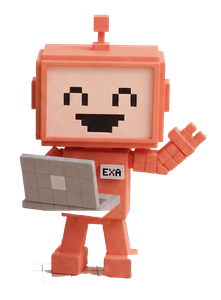
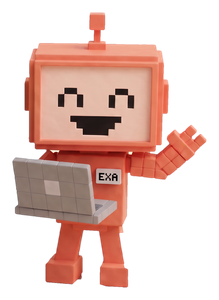
fix: replace the mascot cutouts with properly matted versions
My cut left five floating fragments in naro.png, including a 63px torn piece
of the glass dome. Invisible on paper, glaring on ink — and naro.png is the
canonical asset every future Mitte generation references, so a broken one is
exactly the latent problem that started this.

These come from a matte that fits the background as a per-channel quadratic
rather than assuming a cream constant, separates the plinth by warmth plus a
g/r ratio instead of colour distance (which is what stops Naro's pale-blue leg
highlights being eaten), and reconstructs the glass dome as a genuine partial
alpha annulus. An earlier attempt concluded the dome could not be recovered;
that was wrong, and character-sheet.md now records how it is done.

og-card.html renders from a full-res exa-source.png, so the card is crisp on
re-render rather than degrading each time.

Changed region(s): [[0.0548, 0.03, 0.9589, 0.96], [0.7397, 0.3, 0.7671, 0.39]]

diff --git a/og-source.html b/og-source.html
@@ -32,10 +32,9 @@
   /* Exa waves from the corner. Kept clear of the headline and the stat row so
      nothing collides when a client crops the card.
 
-     NOTE: the committed og-card.png was rasterized while exa.png was still
-     840px tall. That asset is now 300px, so re-rendering this file today
-     produces a slightly softer Exa. If you need a crisp re-render, point this
-     img at a larger source rather than "fixing" the card you just softened. */
+     Renders from assets/mascots/exa-source.png (614x840) rather than the
+     300px exa.png the page uses, so re-running the headless render always
+     produces a crisp card. */
   .og-exa {
     position: absolute;
     right: 52px;
@@ -125,7 +124,7 @@
 </style>
 </head>
 <body>
-  <img class="og-exa" src="exa.png" alt="">
+  <img class="og-exa" src="assets/mascots/exa-source.png" alt="">
   <p class="eyebrow">AI Engineer</p>
 
   <h1>I build AI agents that<br>ship to production<span class="sig">.</span></h1>

diff --git a/index.html b/index.html
@@ -276,7 +276,7 @@
     </section>
 
     <section id="contact" class="dark">
-      <img class="exa" src="exa.png" alt="" aria-hidden="true" loading="lazy" width="221" height="300">
+      <img class="exa" src="exa.png" alt="" aria-hidden="true" loading="lazy" width="219" height="300">
       <div class="wrap contact">
         <h2 class="visually-hidden">Contact</h2>
         <p class="contact-line">Need agents that hold up <br>in production?</p>

diff --git a/styles.css b/styles.css
@@ -674,7 +674,7 @@ p + .lbl { margin-top: 1.5rem; }
 
 #contact { position: relative; }
 .exa {
-  --exa-rest: -94%;            /* -100% + the asset's 6% bottom padding */
+  --exa-rest: -96%;            /* -100% + the asset's 4% bottom padding */
   position: absolute;
   top: 1px;
   right: clamp(24px, 9vw, 132px);

diff --git a/scripts/matte.py b/scripts/matte.py
@@ -1,0 +1,109 @@
+"""Cut Naro and Exa out of duo-v2.png.
+
+INCOMPLETE ON ITS OWN. This expects four precomputed arrays in WORK/:
+
+    bgfit.npy   per-channel quadratic fit of the cream background, taken over
+                the flood-filled border region
+    chres.npy   chroma residual against that fit
+    D.npy       per-pixel sum-abs deviation from the fit  (~16MB, not in git)
+    sat.npy     saturation
+
+They are derived from SRC and were not committed because of D.npy's size. If
+they are missing, rebuild them from the source image before running this.
+
+The reasoning behind each stage — the plinth warmth + g/r test, the glass-dome
+annulus, the plinth-gated hole filling, and un-premultiplying edge colours
+against the fitted background — is written up in ../character-sheet.md under
+"Re-cutting from the source render". Read that first.
+
+Outputs land in WORK/ as {naro,exa}-{tag}.png at 840px tall. Downscale to the
+sizes the site actually uses and re-measure the bottom padding afterwards; the
+CSS offsets (--exa-rest, .gm-right translateY) depend on it.
+"""
+import numpy as np, sys, json
+from PIL import Image
+from scipy import ndimage as nd
+
+WORK='/private/tmp/claude-501/-Users-muazhusaini-Documents-Project/df432e8e-505c-4d5f-af12-d18ff7d2af33/scratchpad/matte/'
+SRC='/Users/muazhusaini/Documents/Project/content-studio/assets/mascot-concepts/duo-v2.png'
+P=dict(split=1020, plinth_y=1340, d_core=60, gr_tan=0.62, gr_grow=0.58,
+       ch_dome=15, dome_vmin=90, dome_t0=62, dome_t1=120, dome_max=0.75, erode=3, warm_min=15, grow=4, feather=1.6, tag='v2')
+P.update(json.loads(sys.argv[1]) if len(sys.argv)>1 else {})
+
+rgb=np.asarray(Image.open(SRC).convert('RGB')).astype(np.float32)
+bgfit=np.load(WORK+'bgfit.npy'); chres=np.load(WORK+'chres.npy')
+D=np.load(WORK+'D.npy'); sat=np.load(WORK+'sat.npy')
+H,W,_=rgb.shape
+rows=np.arange(H)[:,None]; cols=np.arange(W)[None,:]
+
+core=nd.binary_closing(D>P['d_core'], np.ones((3,3)))
+
+# --- plinth: below its top edge, only saturated (character) pixels survive ---
+# Below the plinth's top edge the only real content is boots. Tan (incl. its
+# coral-bounce contact shadow) sits at g/r 0.70-0.90; coral boots stay under
+# 0.59 and Naro's blue/green never passes the warm test at all.
+warm=(rgb[:,:,0]-rgb[:,:,2])>P['warm_min']
+gr=rgb[:,:,1]/np.maximum(rgb[:,:,0],1)
+plinth=(rows>=P['plinth_y'])&core&warm&(gr>P['gr_tan'])
+plinth=(nd.binary_dilation(plinth,np.ones((3,3)),iterations=P['grow'])
+        &warm&(gr>P['gr_grow'])&(rows>=P['plinth_y']))
+
+# --- dome: low-chroma blob at Naro's head, closed into its convex disc ------
+ll,_=nd.label((D>22)&(chres<13))
+blob=nd.binary_fill_holes(nd.binary_closing(ll==ll[300,700], np.ones((9,9))))
+def spanfill(m):
+    out=np.zeros_like(m); idx=np.arange(m.shape[1])[None,:]
+    any_=m.any(1)
+    lo=np.where(any_, m.argmax(1), 0); hi=np.where(any_, m.shape[1]-1-m[:,::-1].argmax(1), -1)
+    out=(idx>=lo[:,None])&(idx<=hi[:,None])&any_[:,None]
+    return out
+disc=spanfill(blob)&spanfill(blob.T).T
+# glass = low chroma AND not dark (keeps the black eyes/mouth inside the dome)
+dome=disc&(chres<P['ch_dome'])&(rgb.min(2)>P['dome_vmin'])
+
+subj=core&~plinth&~dome
+subj=nd.binary_opening(subj,np.ones((3,3)))
+sl,sn=nd.label(subj); sizes=nd.sum(subj,sl,range(1,sn+1))
+subj=np.isin(sl,[i+1 for i,s in enumerate(sizes) if s>4000])
+# fill an interior hole only if it is not made of plinth/dome (background) pixels
+holes=nd.binary_fill_holes(subj)&~subj
+hl,hn=nd.label(holes)
+bad=plinth.astype(np.float32)   # dome-shaped holes inside the head must still be filled
+hs=nd.sum(holes,hl,range(1,hn+1)); hb=nd.mean(bad,hl,range(1,hn+1))
+subj=subj|np.isin(hl,[i+1 for i in range(hn) if hs[i]<40000 and hb[i]<0.25])
+# drop isolated specks
+sl2,sn2=nd.label(subj); z=nd.sum(subj,sl2,range(1,sn2+1))
+subj=np.isin(sl2,[i+1 for i,v in enumerate(z) if v>4000])
+
+hard=nd.gaussian_filter(nd.binary_erosion(subj,np.ones((3,3)),iterations=P['erode']).astype(np.float32),P['feather'])
+dome_a=nd.gaussian_filter(np.where(dome,np.clip((D-P['dome_t0'])/(P['dome_t1']-P['dome_t0']),0,1)*P['dome_max'],0).astype(np.float32),1.2)
+alpha=np.maximum(hard,dome_a)
+
+a3=alpha[...,None]
+col=np.clip(np.where(a3>0.15,(rgb-(1-a3)*bgfit)/np.maximum(a3,1e-3),rgb),0,255)
+
+Image.fromarray((alpha*255).astype(np.uint8)).resize((768,768)).save(WORK+f'alpha-{P["tag"]}.png')
+
+def emit(al,name):
+    al=al.astype(np.float32)
+    ys,xs=np.nonzero(al>0.02); y0,y1,x0,x1=ys.min(),ys.max()+1,xs.min(),xs.max()+1
+    c=col[y0:y1,x0:x1]; a=al[y0:y1,x0:x1]; h,w=a.shape
+    # 4% margin measured against the PADDED canvas, so it is also >4% of the
+    # cropped content -- satisfies either reading of the spec.
+    p=int(round(0.04*max(h,w)/0.92))
+    C=np.zeros((h+2*p,w+2*p,4),np.float32); C[p:p+h,p:p+w,:3]=c; C[p:p+h,p:p+w,3]=a*255
+    im=Image.fromarray(C.astype(np.uint8))
+    im=im.resize((max(1,round(im.width*840/im.height)),840), Image.LANCZOS)
+    im.save(WORK+f'{name}-{P["tag"]}.png',optimize=True)
+    print(name,'src box y%d-%d x%d-%d pad %d ->'%(y0,y1,x0,x1,p),im.size)
+
+def biggest(m):
+    l,n=nd.label(m)
+    if n==0: return m
+    z=nd.sum(m,l,range(1,n+1))
+    return l==int(np.argmax(z))+1
+naro_body=biggest(subj&(cols<P['split']))
+exa_body =biggest(subj&(cols>=P['split']))
+naro_a=np.maximum(np.where(naro_body,hard,0), dome_a)
+exa_a =np.where(exa_body,hard,0)
+emit(naro_a,'naro'); emit(exa_a,'exa')

diff --git a/character-sheet.md b/character-sheet.md
@@ -7,9 +7,9 @@ visual half lives in `assets/mascots/`.
 | | |
 |---|---|
 | Visual reference | `assets/mascots/naro-character-sheet.jpg`, `assets/mascots/exa-character-sheet.jpg` |
-| Shipped web assets | `naro.png` 203×300, `exa.png` 221×300, `assets/mascots/naro-scout.png` 210×320, `exa-sit.png` 226×320, `naro-adrift.png` 598×800 |
+| Shipped web assets | `naro.png` 186×300, `exa.png` 219×300, `assets/mascots/naro-scout.png` 210×320, `exa-sit.png` 226×320, `naro-adrift.png` 598×800, `exa-source.png` 614×840 (full-res, used only to render the OG card) |
 | Asset rules | All transparent. All carry ~5–6% padding so no opaque pixel touches a canvas edge. All sized to ~2.4× their rendered height — enough for retina, no more. **Keep the `width`/`height` attributes in the markup in sync when you resize any of them.** |
-| Padding gotcha | That bottom padding means a character positioned with `translateY(-100%)` floats above the edge it should stand on. `.exa` offsets it with `--exa-rest: -94%`; `.gm-right` uses `translateY(6%)`. If you regenerate an asset with different padding, re-measure and update those two numbers. |
+| Padding gotcha | That bottom padding means a character positioned with `translateY(-100%)` floats above the edge it should stand on. `.exa` offsets it with `--exa-rest: -96%` (4% padding); `.gm-right` uses `translateY(6%)` (its asset has 6%). **If you regenerate an asset, re-measure its bottom padding and update the matching number.** |
 | Origin | Cut from `content-studio/assets/mascot-concepts/duo-v2.png` by PIL floodfill |
 | Reference sheets | Generated 2026-08-21 with `nano-banana-pro` on Mitte, using the live PNGs as `image_urls` |
 
@@ -59,6 +59,40 @@ Blocky voxel robot in warm coral / salmon-pink plastic.
 
 Colours: coral pink, deep coral shadow, pale cream, light silver grey, mid grey,
 near-black.
+
+## Re-cutting from the source render
+
+`naro.png` and `exa.png` are cut from
+`content-studio/assets/mascot-concepts/duo-v2.png` (2048², both characters on a
+tan plinth over a cream gradient). The working script is at
+`scratchpad/matte/matte.py`. What makes it work:
+
+- **Fit the background, don't assume it.** A per-channel quadratic fit over the
+  flood-filled border region, then measure every pixel's deviation from that
+  fit. A fixed cream constant is not good enough — the backdrop is a gradient.
+- **The plinth is not a colour threshold.** Below its top edge (y=1340; Exa's
+  laptop bottoms out at y=1297, so there is no overlap) a pixel is plinth if it
+  is warm (`r−b > 15`) **and** `g/r > 0.62`. Measured separation: plinth
+  0.80–0.90, its coral-bounce contact shadow 0.70–0.79, coral boots p99 0.585.
+  The warmth test is what stops Naro's pale-blue leg highlights being eaten,
+  which otherwise notches his legs.
+- **Naro's glass dome CAN be reconstructed** — an earlier attempt concluded
+  otherwise and was wrong. Take the convex disc around the low-chroma blob at
+  his head, guard it with `min channel > 90` so his black eyes and mouth are not
+  read as glass, and ramp alpha from D=62 to D=120 capped at 0.75. It renders as
+  a thin annulus with a rim specular, which is what real glass looks like.
+- **Gate hole-filling on plinth content**, so the wedge between Exa's legs stays
+  transparent while the near-cream NARO patch and screen interiors still fill.
+- **Take the largest connected component per side**, which drops a coral-tinted
+  glass sliver — the dome's right arc refracting Exa's body — that otherwise
+  floats beside her.
+- **Un-premultiply edge colours against the fitted background** after eroding
+  ~3px and feathering. This is what kills the cream halo on the ink band; a
+  halo is invisible on paper and glaring on `#17171A`, so always check both.
+
+Known residual: a ~4px tan nub at the lower-right of Exa's left boot, a contact
+shadow remnant. Two attempts to remove it bit notches out of the other boot, so
+it stays; it reads as contact shadow at display size.
 
 ## Regenerating
 
